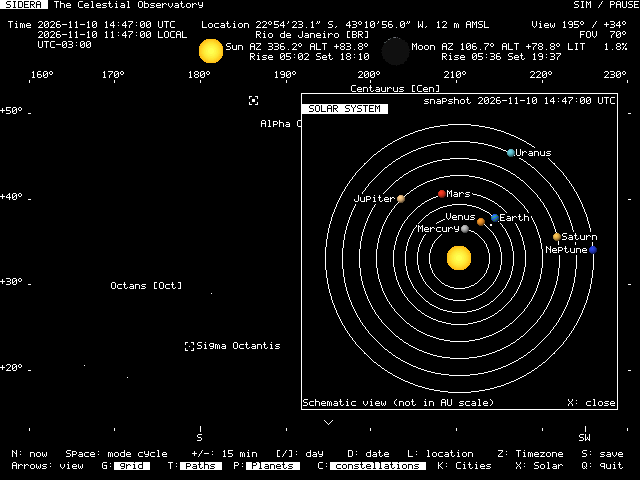
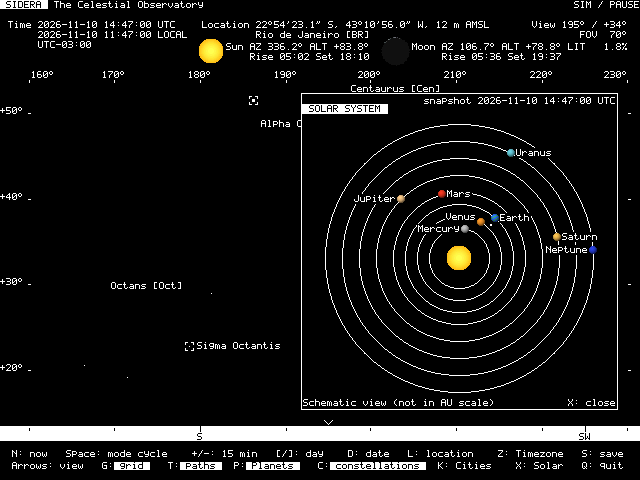
display updates

Changed region(s): [[0.0, 0.875, 1.0, 0.9375]]

diff --git a/tests/host_test.c b/tests/host_test.c
@@ -477,7 +477,7 @@ static void grid_modes(const char *path)
         if(mode==3)assert(pixel(338,120)&&pixel(328,130)&&!pixel(328,129)&&!pixel(338,130));
         assert(pixel(378,428)&&pixel(378,430)&&!pixel(378,431));
         assert(pixel(328,426)&&pixel(328,431)&&!pixel(328,432));
-        assert(!pixel(328,433)&&pixel(326,434));
+        assert(!pixel(328,432)&&pixel(326,433));
         assert(pixel(328,424)&&!pixel(328,425));
         gx_footer();sprintf(name,"%s.g%u",path,mode);f=fopen(name,"wb");assert(f);
         assert(fwrite(xram,1,65536,f)==65536);fclose(f);
@@ -699,6 +699,44 @@ static void preserved_scales(void)
     sky_compute(&moment,&observer,&sky);planets_compute(&moment,&observer,planet_positions);
     cs_begin();while(cs_busy())cs_step();gx_scene();
     puts("PASS: untouched compass/scale pixels and bytes; LIVE/SIM, 12 FOVs, G modes, interrupted redraws");
+}
+static void daylight_compass(void)
+{
+    Date saved=moment;
+    unsigned i;
+    int zoom,saved_fov=fov,saved_bearing=bearing;
+    static unsigned char daytime[480*80];
+    assert(rs_daylight());
+    assert(!pixel(0,425)&&pixel(0,426)&&pixel(639,440)&&!pixel(639,441)&&pixel(VIEW_CENTER,424));
+    expect_text(VIEW_CENTER-3,433,"S",1);
+    memcpy(daytime,xram,sizeof(daytime));
+    /* Exact minute boundaries from the Warsaw fixture, expressed in UTC.
+     * Updating daylight alone must touch only the 15-row compass band. */
+    moment.hour=14;moment.minute=50;moment.second=59;
+    portal_writes=0;gx_daylight();assert(!portal_writes);
+    assert(date_step(&moment,1));assert(!rs_daylight());gx_daylight();
+    assert(portal_writes==15*80);
+    for(i=0;i<sizeof(daytime);++i)
+        assert(xram[i]==(i>=426*80&&i<441*80?(daytime[i]^255):daytime[i]));
+    expect_text(VIEW_CENTER-3,433,"S",0);
+    assert(date_step(&moment,-1));gx_daylight();assert(!memcmp(daytime,xram,sizeof(daytime)));
+    moment.hour=5;moment.minute=46;moment.second=59;gx_daylight();
+    assert(!pixel(0,426)&&pixel(VIEW_CENTER,424));
+    assert(date_step(&moment,1));gx_daylight();assert(!memcmp(daytime,xram,sizeof(daytime)));
+    /* Daytime view changes and interrupted clears must never double-invert. */
+    for(zoom=50;zoom<=160;zoom+=10) {
+        gx_zoom(zoom-fov);bearing=zoom%20?359:0;
+        gx_scene_interactive();gx_scene_step();
+        moment.hour=20;gx_daylight();moment.hour=12;gx_daylight();
+        gx_scene_interactive();while(gx_busy())gx_scene_step();
+        assert(!pixel(0,425)&&pixel(0,426)&&pixel(639,440)&&!pixel(639,441));
+        memcpy(daytime,xram,sizeof(daytime));gx_clear(71,377);gx_scene();
+        assert(!memcmp(daytime,xram,sizeof(daytime)));
+        gx_clear(440,1);gx_scene(); /* The white padding is cached content too. */
+        assert(!memcmp(daytime,xram,sizeof(daytime)));
+    }
+    moment=saved;bearing=saved_bearing;gx_zoom(saved_fov-fov);gx_scene();
+    puts("PASS: sunrise/sunset band inversion, backward time, unchanged V/plot, 12 FOVs and interrupted clears");
 }
 static void trail_label_repair(unsigned char mode)
 {
@@ -1111,6 +1149,7 @@ int main(int argc,char **argv)
     sprintf(buf,"%s.riseset",argv[2]);f=fopen(buf,"wb");assert(f);
     assert(fwrite(xram,1,65536,f)==65536);fclose(f);
     /* Local midnight is detected even while the displayed UTC date stays put. */
+    daylight_compass();
     assert(date_parse("2026-11-10 23:00:00",&moment));assert(rs_sync());gx_riseset();
     expect_text(250,53,"Rise ..:.. Set ..:..",0);assert(rs_busy());
     startup_settings(argv[1]);reference_views(argv[2]);

diff --git a/tests/riseset_host.c b/tests/riseset_host.c
@@ -18,6 +18,42 @@ long host_lseek(int fd,long pos,int whence){return _lseek(fd,pos,whence);}
 int host_read(int fd,void *p,unsigned n){return _read(fd,p,n);}
 int host_open(const char *p,int f){return _open(p,f|_O_BINARY,_S_IREAD|_S_IWRITE);}
 int host_close(int fd){return _close(fd);}
+static void daylight_boundaries(void)
+{
+    Date test_date={2026,11,10,0,0,0};
+    int i;
+    /* Synthetic local event boundaries isolate clock classification from
+     * astronomy. Test normal, midnight-spanning and single-event days. */
+    assert(tz_set("Etc/UTC"));
+    moment=test_date;rs_sync();
+    state=2;events[0]=360;events[1]=1080;
+    moment.hour=5;moment.minute=59;moment.second=59;assert(!rs_daylight());
+    moment.hour=6;moment.minute=moment.second=0;assert(rs_daylight());
+    moment.hour=17;moment.minute=moment.second=59;assert(rs_daylight());
+    moment.hour=18;moment.minute=moment.second=0;assert(!rs_daylight());
+    /* Reversing simulation time must reverse the transition immediately. */
+    assert(date_step(&moment,-1));assert(rs_daylight());
+    moment.hour=6;moment.minute=moment.second=0;
+    assert(date_step(&moment,-1));assert(!rs_daylight());
+    events[0]=1080;events[1]=360;
+    moment.hour=0;assert(rs_daylight());moment.hour=12;assert(!rs_daylight());
+    moment.hour=18;assert(rs_daylight());
+    events[0]=-1;moment.hour=0;assert(rs_daylight());moment.hour=12;assert(!rs_daylight());
+    events[0]=360;events[1]=-1;assert(rs_daylight());moment.hour=0;assert(!rs_daylight());
+    events[0]=events[1]=360;moment.hour=6;assert(!rs_daylight());
+    moment.hour=12;assert(!rs_daylight());
+    events[0]=events[1]=-1;
+    for(i=1;i<=2;++i) {
+        seen[0]=i;moment.hour=0;assert(rs_daylight()==(i==1));
+        moment.hour=23;assert(rs_daylight()==(i==1));
+    }
+    seen[0]=1;state=1;assert(!rs_daylight());state=3;assert(!rs_daylight());
+    state=2;assert(rs_daylight());observer.longitude++;assert(!rs_daylight());observer.longitude--;
+    assert(tz_set("Europe/Warsaw"));assert(!rs_daylight());
+    assert(tz_set("Etc/UTC"));assert(date_step(&moment,86400L));assert(!rs_daylight());
+    /* Discard all synthetic cache state before any subsequent use. */
+    state=0;
+}
 int main(int argc,char **argv)
 {
     char name[40],sun[40],moon[40];int y,m,d,h,mi;long lat,lon;
@@ -38,5 +74,5 @@ int main(int argc,char **argv)
         printf("%s|%s|%u|%u|%u\n",sun,moon,steps,calls,state);
         assert(!rs_sync());
     }
-    tz_close();return 0;
+    daylight_boundaries();tz_close();return 0;
 }

diff --git a/src/graphics.c b/src/graphics.c
@@ -26,6 +26,7 @@ static unsigned draw_item;
 #define AXIS_SIDES 4
 static unsigned char axes_valid,axes_redraw;
 static unsigned char axes_grid;
+static unsigned char compass_daylight,compass_inverted;
 static int axes_bearing,axes_elevation,axes_circle;
 
 void gx_axes_invalidate(void) { axes_valid=0; }
@@ -68,7 +69,7 @@ void gx_clear(int y,int rows)
     unsigned char i;
     if(rows>0) {
         if(y<84&&y+rows>71)axes_valid&=~AXIS_TOP;
-        if(y<442&&y+rows>420)axes_valid&=~AXIS_BOTTOM;
+        if(y<441&&y+rows>420)axes_valid&=~AXIS_BOTTOM;
         if(y<418&&y+rows>78)axes_valid&=~AXIS_SIDES;
     }
     for(;rows>0;--rows,++y) {
@@ -484,6 +485,9 @@ static void grid_marks(unsigned char crosses,unsigned char dots)
 }
 static void axes_prepare(void)
 {
+    unsigned char day=rs_daylight();
+    if(day!=compass_daylight)axes_valid&=~AXIS_BOTTOM;
+    compass_daylight=day;
     if(axes_bearing!=bearing)axes_valid&=~(AXIS_TOP|AXIS_BOTTOM);
     if(axes_elevation!=elevation)axes_valid&=~AXIS_SIDES;
     if(axes_circle!=gx_circle)axes_valid=0;
@@ -563,6 +567,20 @@ void gx_grid_add(void)
     cs_labels(0);grid_axes();horizon_label();gx_planet_labels();
     axes_valid|=AXIS_TOP|AXIS_SIDES;
 }
+/* Full-width band starting at the ticks, with a black row below the V
+ * and white padding below the direction labels. XOR preserves geometry. */
+static void compass_invert(void)
+{
+    unsigned a;
+    RIA.step0=RIA.step1=1;RIA.addr0=RIA.addr1=426u*80;
+    for(a=0;a<15u*80;++a)RIA.rw0=RIA.rw1^255;
+    compass_inverted=!compass_inverted;
+}
+void gx_daylight(void)
+{
+    compass_daylight=rs_daylight();
+    if((axes_valid&AXIS_BOTTOM)&&compass_inverted!=compass_daylight)compass_invert();
+}
 static void compass(void)
 {
     static const char *const dirs[]={"N","NE","E","SE","S","SW","W","NW"};
@@ -581,9 +599,11 @@ static void compass(void)
     for(i=0;i<8;++i) {
         x=azimuth_x(i*45);
         if(x<VIEW_LEFT||x>VIEW_RIGHT)continue;
-        gx_line(x,426,x,431,0);gx_text(x-(int)strlen(dirs[i])*3,434,dirs[i]);
+        gx_line(x,426,x,431,0);gx_text(x-(int)strlen(dirs[i])*3,433,dirs[i]);
     }
     gx_line(VIEW_CENTER-4,420,VIEW_CENTER,424,0);gx_line(VIEW_CENTER,424,VIEW_CENTER+4,420,0);
+    compass_inverted=0;
+    if(compass_daylight)compass_invert();
     axes_valid|=AXIS_BOTTOM;
 }
 void gx_scene_begin(void)

diff --git a/tests/daylight_smoke.py b/tests/daylight_smoke.py
@@ -1,0 +1,40 @@
+"""Exercise actual-ROM daylight transitions without a full chart redraw."""
+from pathlib import Path
+import os
+import shlex
+import sys
+import rp6502
+
+emulator = Path(os.environ['RP6502_EMU'])
+if sys.platform == 'linux' and emulator.read_bytes()[:2] == b'MZ':
+    wrapper = Path('emu-wsl.sh').resolve()
+    bridge = Path(__file__).resolve().parents[1]/'scripts/emu_wsl.py'
+    wrapper.write_text('#!/bin/sh\nexec '+shlex.join([sys.executable,str(bridge),str(emulator)])+' "$@"\n')
+    wrapper.chmod(0o755)
+    os.environ['RP6502_EMU'] = str(wrapper)
+
+with rp6502.Emu() as emu:
+    def chart():
+        return bytes.fromhex(emu.cmd('dump xram:5680 30160'))  # Rows 71..447.
+
+    emu.cmd('run 1200')
+    emu.cmd('wait _calculating 0 14400')
+    emu.cmd('peek _compass_inverted 0')
+    night = chart()
+    emu.cmd('key space')
+    emu.cmd('wait _compass_inverted 1 7200')  # SIM advances across local 06:47.
+    day = chart()
+    assert all(b == (a ^ (255 if (426-71)*80 <= i < (441-71)*80 else 0))
+               for i,(a,b) in enumerate(zip(night,day)))
+    emu.cmd('key minus')  # Pause and go back before sunrise.
+    emu.cmd('wait _playing 0 120')
+    # The mode flag changes before the remainder of the input iteration paints.
+    emu.cmd('wait _compass_inverted 0 7200')
+    assert chart() == night
+    emu.cmd('key equal+shift')
+    emu.cmd('wait _compass_inverted 1 7200')
+    assert chart() == day
+    emu.cmd('key q')
+    emu.cmd('wait exit 120')
+    emu.cmd('expect exit 0')
+print('PASS: SIM sunrise, backward/forward manual time, exact band inversion; plot and V unchanged')

diff --git a/src/main.c b/src/main.c
@@ -83,7 +83,7 @@ int main(int argc,char **argv)
                 /* Modal snapshot: freeze all sky jobs and simulation, only LIVE clocks run. */
                 if(live&&(unsigned)(platform_ticks()-tick)>=PLATFORM_TICK_HZ) {
                     tick=platform_ticks();
-                    if(now())gx_clock();
+                    if(now()){gx_clock();gx_daylight();}
                     else {live=0;strcpy(note,"Cannot read system clock.");}
                 }
                 platform_sleep_ticks(1);continue;
@@ -196,7 +196,10 @@ int main(int argc,char **argv)
             star_check=0;
         }
         if(constellation_mode&&cs_busy()&&!gx_busy()){gx_status(1);if(cs_step())scene=1;}
-        if((head||clock_dirty)&&rs_sync())gx_riseset();
+        if(head||clock_dirty) {
+            if(rs_sync())gx_riseset();
+            gx_daylight();
+        }
         /* Keep the previous plot while preparing stars. Draw it only once,
          * with the new catalogue, instead of drawing old and new stars. */
         if(head){present=1;head=0;}
@@ -210,7 +213,7 @@ int main(int argc,char **argv)
         }
         if(clock_dirty){gx_clock();clock_dirty=0;}
         if(gx_busy())gx_scene_step();
-        if(rs_busy()&&!gx_busy()&&!refresh) {gx_status(1);if(rs_step())gx_riseset();}
+        if(rs_busy()&&!gx_busy()&&!refresh) {gx_status(1);if(rs_step()){gx_riseset();gx_daylight();}}
         else if(trails&&!trail_end&&trail_done<TRAIL_COUNT&&!gx_busy()&&!refresh) {
             gx_status(1);
             sky_positions(&trail_time,&observer,&trail_sky);

diff --git a/tests/check_riseset_6502.py b/tests/check_riseset_6502.py
@@ -32,8 +32,15 @@ rs_text(0,text);assert(!strcmp(text,"Rise ..:.. Set ..:.."));
 while(rs_busy()){rs_step();assert(++steps<2000);}
 rs_text(0,text);assert(!strcmp(text,"Rise 06:47 Set 15:51"));puts(text);
 rs_text(1,text);assert(!strcmp(text,"Rise 08:29 Set 15:43"));puts(text);
+assert(rs_daylight());
+moment.hour=5;moment.minute=46;moment.second=59;assert(!rs_daylight());
+moment.minute=47;moment.second=0;assert(rs_daylight());
+moment.hour=14;moment.minute=50;moment.second=59;assert(rs_daylight());
+moment.minute=51;moment.second=0;assert(!rs_daylight());
+moment.hour=12;moment.minute=0;
 assert(!rs_sync());assert(date_step(&moment,60));assert(!rs_sync());
 assert(date_step(&moment,86400L));assert(rs_sync()&&rs_busy());
+assert(!rs_daylight());
 rs_step();observer.longitude+=36000L;assert(rs_sync());
 assert(tz_set("Etc/UTC"));assert(rs_sync());
 rs_text(1,text);assert(!strcmp(text,"Rise ..:.. Set ..:.."));

diff --git a/src/riseset.c b/src/riseset.c
@@ -95,6 +95,22 @@ unsigned char rs_step(void)
     }
     return !rs_busy();
 }
+unsigned char rs_daylight(void)
+{
+    Date local;
+    int32_t offset;
+    int minute,rise=events[0],set=events[1];
+    /* Use the same local minute boundaries as the displayed Rise/Set times.
+     * Pending, incomplete or stale results must not colour a different day. */
+    if(state!=2||memcmp(&place,&observer,sizeof(place))||strcmp(zone,zone_name)||
+       !tz_local(&moment,&local,&offset)||date_day(&local)!=day)return 0;
+    minute=local.hour*60u+local.minute;
+    if(rise<0&&set<0)return seen[0]==1;
+    if(rise<0)return minute<set;
+    if(set<0)return minute>=rise;
+    if(rise<=set)return minute>=rise&&minute<set;
+    return minute>=rise||minute<set; /* Daylight spanning local midnight. */
+}
 void rs_text(unsigned char body,char *text)
 {
     unsigned char i;

diff --git a/src/sidera.h b/src/sidera.h
@@ -78,8 +78,10 @@ extern char config_path[160], asset_path[160];
 unsigned char rs_sync(void);
 unsigned char rs_busy(void);
 unsigned char rs_step(void);
+unsigned char rs_daylight(void);
 void rs_text(unsigned char body,char *text);
 void gx_riseset(void);
+void gx_daylight(void);
 
 void paths_init(void);
 int config_load(void); /* 0 missing, 1 read, -1 invalid/I/O */

diff --git a/docs/tests.md b/docs/tests.md
@@ -15,11 +15,16 @@
   unsigned deadline wrap, manual +15-minute pause/resume and the year-2200
   boundary. Q is also tested during catalogue preparation.
   Projection checks cover all 12 FOVs, negative rounding and inactive-buffer
-  ownership; the six existing reference PNGs remain unchanged.
+  ownership. Six reference PNGs cover sky and Solar System views; the daytime
+  C views include the inverted compass band.
   Perimeter checks reject writes to unchanged compasses and side scales during
   elevation, azimuth and LIVE/SIM time updates. They cover all 12 FOVs, every
   grid mode, shared boundary bytes, interrupted redraws and explicit refresh;
   the resulting bitmap must match a fresh full redraw.
+  Daylight checks cover local Rise/Set minute boundaries, reverse time, polar
+  UP/DOWN, midnight-spanning and single-crossing days, and stale event caches.
+  Bitmap checks require an exact inversion of rows 426–440 with every other
+  pixel (including V) unchanged, also after interrupted view/FOV redraws.
   City rendering checks verify the frame, preservation of surrounding pixels,
   incremental redraws, search and 14-row pagination.
   `sidera_platform_6502` checks the 125 Hz clock code, 16-bit counter wraparound,
@@ -42,6 +47,9 @@
 - `sidera_generated_assets`: reproduces the catalogue, tables, graphics, cities
   and time zones offline and compares them with the supplied files. For text,
   only line endings are normalized.
+- `sidera_daylight`: crosses sunrise in SIM/PLAY, then moves backward and forward
+  with manual time keys in the actual ROM at 8 MHz. It checks exact band inversion
+  and preservation of every other plot/compass pixel, including V.
 - `sidera_input`: measures actual-ROM response at 8 MHz with full G/T/C/P.
   Horizontal arrows (idle and during catalogue preparation), elevation arrows
   (idle) and physical LCtrl FOV (idle)

diff --git a/docs/architecture.md b/docs/architecture.md
@@ -20,16 +20,16 @@ holds the active overlay's code, constants, initialized data and BSS.
 Sizes are from the current cc65 build. Each resource also has a 24-byte header,
 read outside the window. Build-time checks reject memory boundary violations.
 
-Resident code, constants and BSS end at `$BE4D` (exclusive).
-After reserving the entire window, **8371 B of unallocated RAM** remain below
-the C stack: 2483 B at `$BE4D–$C7FF` and 5888 B at `$E000–$F6FF`.
+Resident code, constants and BSS end at `$C062` (exclusive).
+After reserving the entire window, **7838 B of unallocated RAM** remain below
+the C stack: 1950 B at `$C062–$C7FF` and 5888 B at `$E000–$F6FF`.
 The C stack retains `$F700–$FEFF`, 2048 B. The upper free area is currently neither
 a linker segment nor a heap; using it in future code requires a separate segment
 and corresponding changes to image packing.
 
 In the original standalone build used for comparison, data ends at `$D5B1`,
 leaving 8527 B free. After adding X, removing the RMT layer and updating the
-controls, city panel, simulation scheduling and perimeter rendering, **156 B**
+controls, city panel, simulation scheduling and perimeter rendering, **689 B**
 less RAM is available than in the original, after accounting for the window,
 loader and panel code. Unused space inside
 overlays is not included in this result.

diff --git a/docs/technical-reference.md b/docs/technical-reference.md
@@ -212,7 +212,16 @@ geocentric distance; labels and daily paths require additional overlap handling.
 Perimeter scales are preserved independently of the plot interior. The upper
 and lower compasses change with bearing or FOV; the side scales change with
 elevation or FOV. Grid visibility also controls the upper and side scales.
-LIVE and SIM/PLAY updates leave all unchanged margins in place. Clearing uses
+LIVE and SIM/PLAY updates leave all unchanged margins in place, except for the
+lower compass's daylight style. Its full-width band (rows 426–440, below the V)
+uses black ticks and directions on white from the displayed Sun Rise minute
+(inclusive) to Set (exclusive). At night it uses white on black. Polar UP/DOWN
+and civil days with just one crossing are supported; pending, stale or unavailable
+event results use the normal dark band. A style transition XORs only that band,
+including when time runs backward, without clearing the plot or the V.
+Direction glyphs occupy rows 433–439, leaving one empty row after the ticks
+and one row of background below the letters.
+Clearing uses
 masked writes at the plot edges because margin and plot pixels share bytes.
 Left scale ticks inside the plot and the interior horizon are restored on each
 scene. Regions become valid only after drawing finishes, so interrupted view

diff --git a/AGENTS.md b/AGENTS.md
@@ -63,7 +63,11 @@
   and [simulation measurements](docs/simulation-performance.md).
 - Preserve unchanged plot margins: top/bottom compasses depend on bearing/FOV,
   side scales on elevation/FOV; the top and sides also depend on grid visibility.
-  Time updates preserve all three regions. Restore left ticks inside the cleared
+  Time updates preserve all three regions except the lower compass day/night
+  inversion: its full-width band below V is white from Sun Rise (inclusive) to
+  Set (exclusive), using displayed local minutes; Sun UP/DOWN handles polar days.
+  Pending/unavailable rise/set results use the normal dark band.
+  Restore left ticks inside the cleared
   plot, and invalidate margins on full clears and Ctrl+L. Interrupted redraws
   must not mark partially cleared axes as complete.
 - Five overlays (INIT, CITIES, EDIT, COVER, SOLAR) share CPU `$C800–$DEFF`
